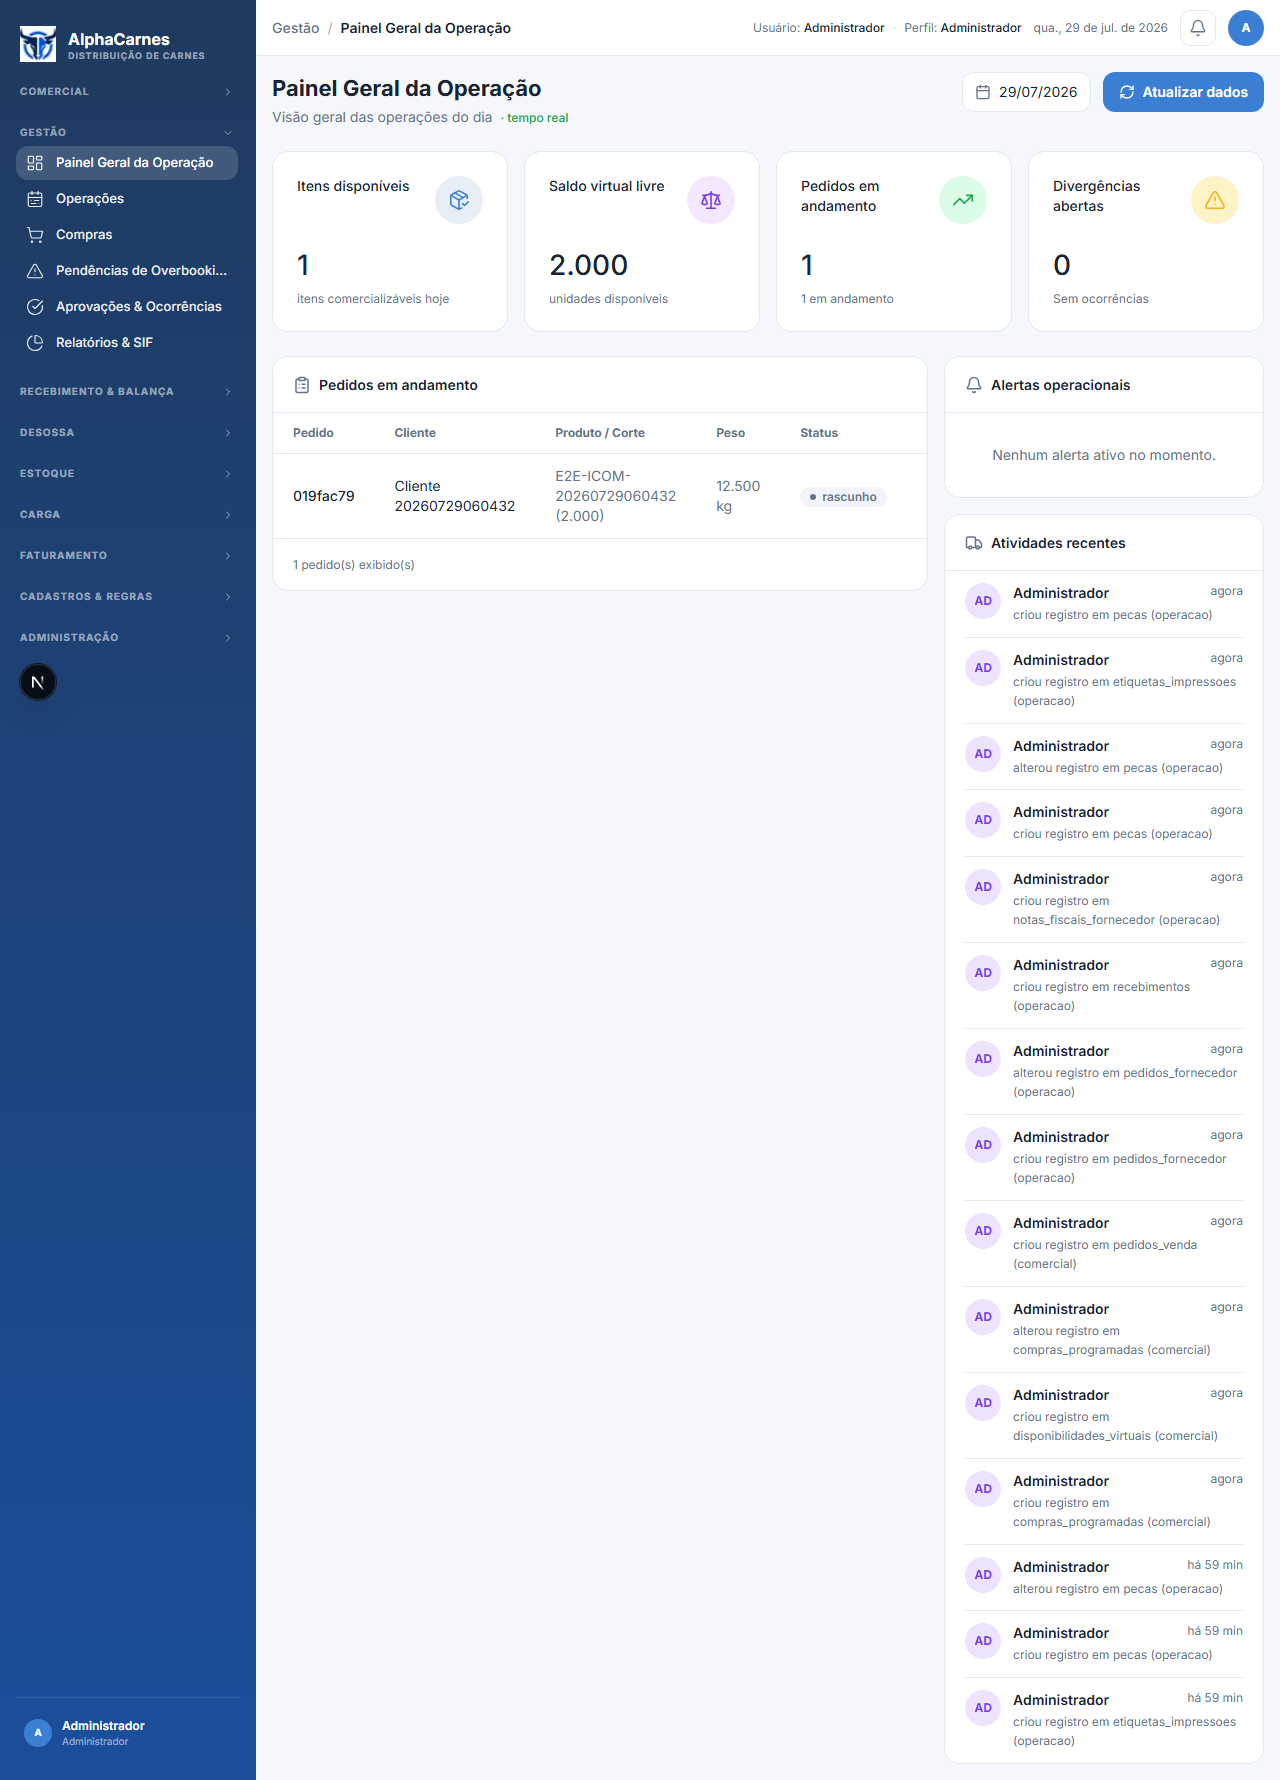
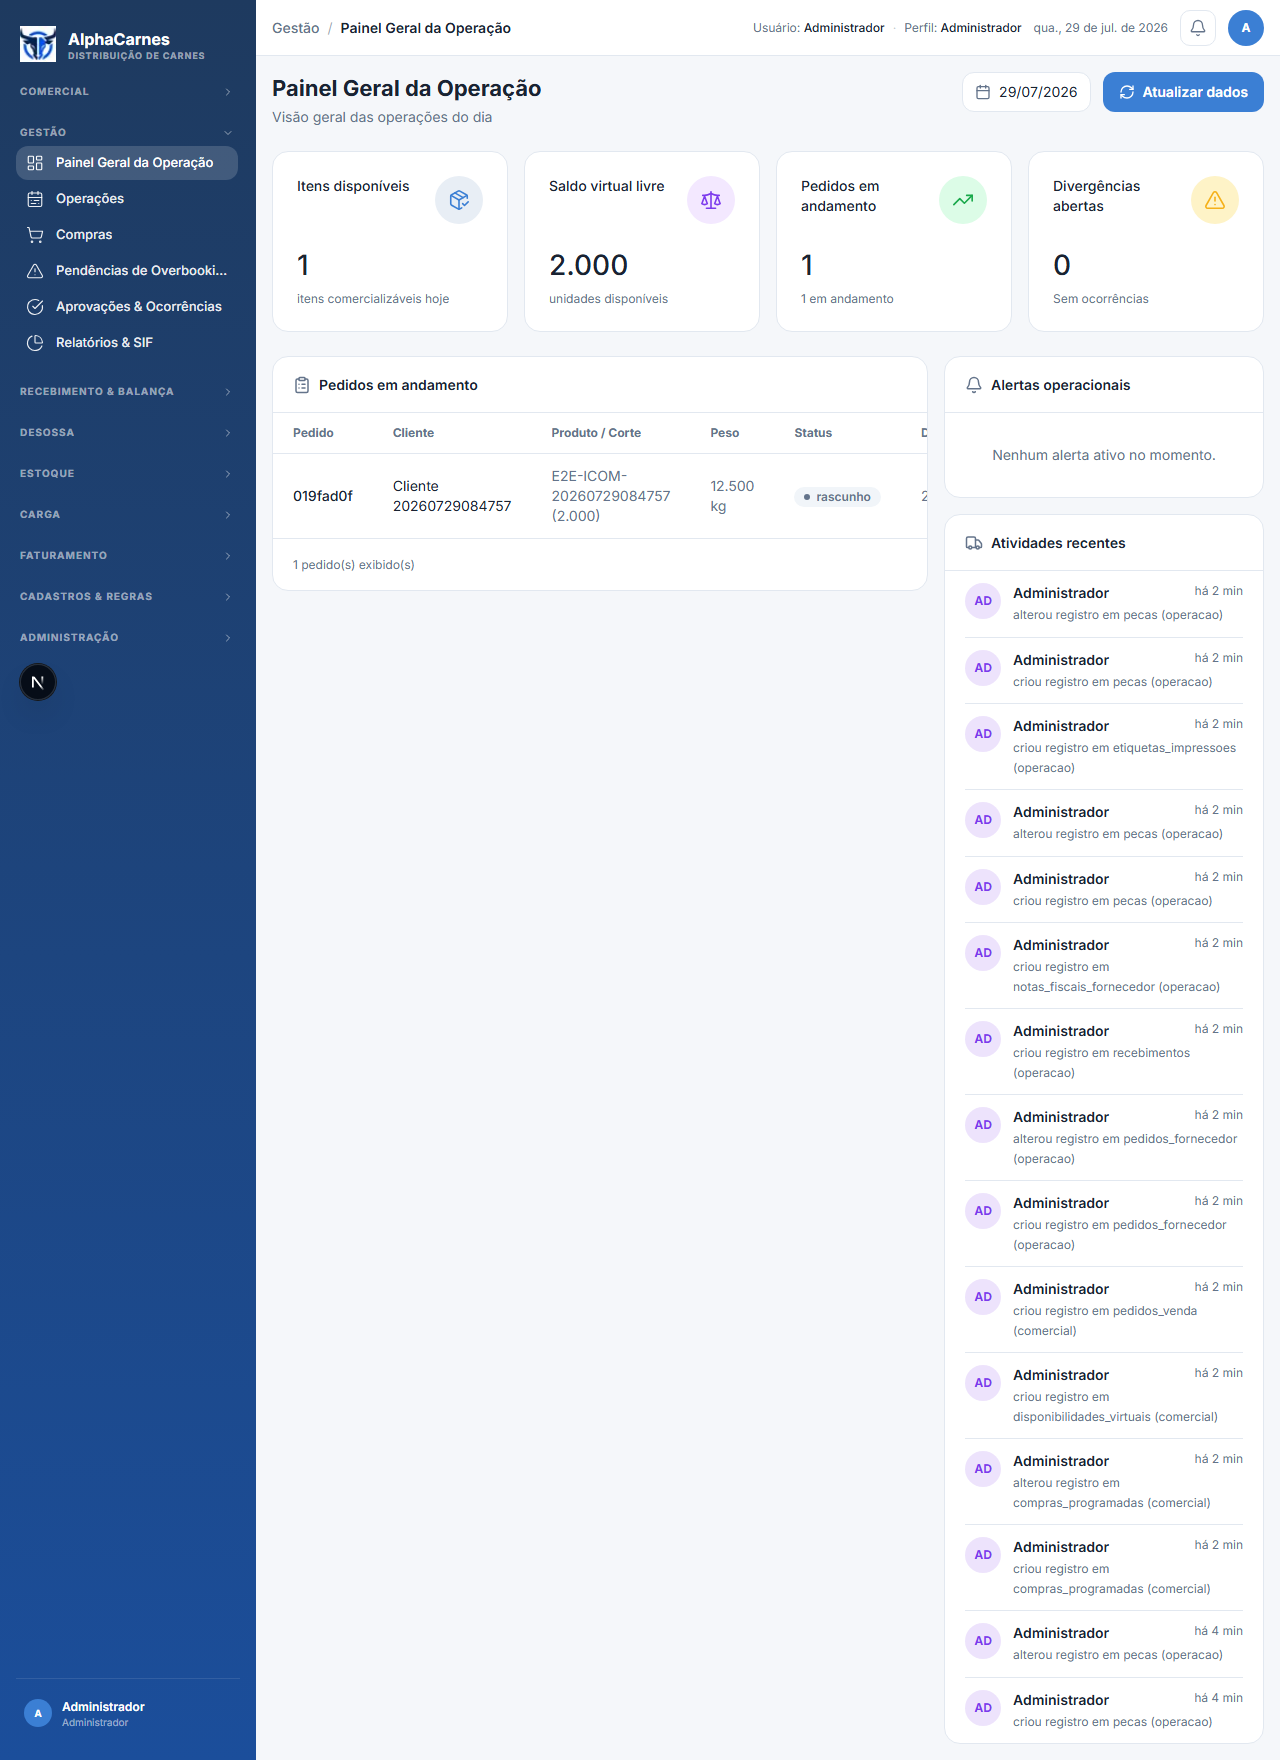
docs(onda4): registrar relatório de implementação

diff --git a/docs/evidencias/alpha-jornada-e2e/index.html b/docs/evidencias/alpha-jornada-e2e/index.html
@@ -37,7 +37,7 @@
     <p>Relatório gerado pela automação Playwright com dados inseridos no banco atual e telas capturadas no navegador Chromium.</p>
     <div class="badges">
       <span class="badge">11 telas capturadas</span>
-      <span class="badge">Run 20260729070514</span>
+      <span class="badge">Run 20260729085454</span>
       <span class="badge">Data 2026-08-01</span>
     </div>
   </header>
@@ -46,7 +46,7 @@
       <h2>Rastreabilidade dos Dados</h2>
       <p>Limite ativo da Onda 4: para_corte</p>
       <div class="context-grid">
-        <div><strong>Run ID</strong><p><code>20260729070514</code></p></div><div><strong>Data operacional</strong><p><code>2026-08-01</code></p></div><div><strong>Cliente</strong><p><code>019facb1-300f-79da-94eb-4ed76f4203b2</code></p></div><div><strong>Fornecedor</strong><p><code>019facb1-3bf4-7456-9336-58e2f2973bf2</code></p></div><div><strong>Item compra</strong><p><code>019facb1-4e7a-7ccc-8eba-b34f5ffa4c8a</code></p></div><div><strong>Item comercial</strong><p><code>019facb1-57a8-775b-8ac8-eb7f24e57664</code></p></div><div><strong>Compra programada</strong><p><code>019facb1-5c40-7aeb-a809-8c0cd64f0659</code></p></div><div><strong>Pedido venda</strong><p><code>019facb1-6953-7456-99b6-27d046987b4d</code></p></div><div><strong>Recebimento</strong><p><code>019facb1-7874-7116-9cdd-8ff0fc0f9dba</code></p></div><div><strong>Peça carga</strong><p><code>019facb1-8318-7fc6-825c-2dbccc239aa0</code></p></div><div><strong>Peça no handoff</strong><p><code>019facb1-9540-7b42-8ad2-285d244336e0</code></p></div><div><strong>Limite ativo da Onda 4</strong><p><code>para_corte</code></p></div>
+        <div><strong>Run ID</strong><p><code>20260729085454</code></p></div><div><strong>Data operacional</strong><p><code>2026-08-01</code></p></div><div><strong>Cliente</strong><p><code>019fad15-98ad-7965-bc99-166229180c02</code></p></div><div><strong>Fornecedor</strong><p><code>019fad15-a491-7d81-a334-d8f73381d403</code></p></div><div><strong>Item compra</strong><p><code>019fad15-b72f-7d20-926f-5c1e3f8fa09b</code></p></div><div><strong>Item comercial</strong><p><code>019fad15-bff5-78f4-96d3-eae5f4777445</code></p></div><div><strong>Compra programada</strong><p><code>019fad15-c462-7457-b3bf-19842abfdf60</code></p></div><div><strong>Pedido venda</strong><p><code>019fad15-d0d6-7719-ae7b-86dad72285f0</code></p></div><div><strong>Recebimento</strong><p><code>019fad15-e082-769d-be0a-d0e611c48c59</code></p></div><div><strong>Peça carga</strong><p><code>019fad15-eb19-7978-90e0-71b1ec6cd064</code></p></div><div><strong>Peça no handoff</strong><p><code>019fad15-fd5b-7d2e-9af8-f8093da41e93</code></p></div><div><strong>Limite ativo da Onda 4</strong><p><code>para_corte</code></p></div>
       </div>
     </section>
     <section class="coverage">
@@ -66,7 +66,7 @@
         </tbody>
       </table>
     </section>
-    <section class="observations"><h2>Observações Técnicas</h2><ul><li>Console warning: WebSocket connection to 'ws://localhost:4001/' failed: WebSocket is closed before the connection is established.</li><li>Console error: Failed to load resource: the server responded with a status of 409 (Conflict)</li></ul></section>
+    <section class="observations"><h2>Observações Técnicas</h2><ul><li>Console warning: WebSocket connection to 'ws://127.0.0.1:4001/' failed: WebSocket is closed before the connection is established.</li><li>Console error: WebSocket connection to 'ws://127.0.0.1:4001/' failed: HTTP Authentication failed; no valid credentials available</li><li>Console error: WebSocket connection to 'ws://127.0.0.1:4001/' failed: HTTP Authentication failed; no valid credentials available</li><li>Console error: WebSocket connection to 'ws://127.0.0.1:4001/' failed: HTTP Authentication failed; no valid credentials available</li><li>Console error: WebSocket connection to 'ws://127.0.0.1:4001/' failed: HTTP Authentication failed; no valid credentials available</li><li>Console error: WebSocket connection to 'ws://127.0.0.1:4001/' failed: HTTP Authentication failed; no valid credentials available</li><li>Console warning: WebSocket connection to 'ws://127.0.0.1:4001/' failed: WebSocket is closed before the connection is established.</li><li>Console error: WebSocket connection to 'ws://127.0.0.1:4001/' failed: HTTP Authentication failed; no valid credentials available</li><li>Console error: WebSocket connection to 'ws://127.0.0.1:4001/' failed: HTTP Authentication failed; no valid credentials available</li><li>Console error: WebSocket connection to 'ws://127.0.0.1:4001/' failed: HTTP Authentication failed; no valid credentials available</li><li>Console error: Failed to load resource: the server responded with a status of 409 (Conflict)</li></ul></section>
     
         <section class="step" id="01-login">
           <div class="step-head">
@@ -209,12 +209,12 @@
             <span>09</span>
             <div>
               <h2>Recebimento e Balança</h2>
-              <code>http://localhost:3100/recebimento/pesagem-destinacao?recebimentoId=019facb1-7874-7116-9cdd-8ff0fc0f9dba</code>
+              <code>http://localhost:3100/recebimento/pesagem-destinacao?recebimentoId=019fad15-e082-769d-be0a-d0e611c48c59</code>
             </div>
           </div>
           <div class="meta-grid">
             <div><strong>Objetivo</strong><p>Criar lote de recebimento pela tela vigente e encaminhar para a balança.</p></div>
-            <div><strong>Ação</strong><p>Pedido ao Fornecedor PF-E2E-20260729070514-3-1785308736591 foi selecionado e a NF-e informada no novo recebimento.</p></div>
+            <div><strong>Ação</strong><p>Pedido ao Fornecedor PF-E2E-20260729085454-3-1785315316707 foi selecionado e a NF-e informada no novo recebimento.</p></div>
             <div><strong>Resultado</strong><p>Lote criado e aberto na tela de Pesagem e Destinação.</p></div>
           </div>
           
@@ -226,7 +226,7 @@
             <span>10</span>
             <div>
               <h2>Pesagem, Associação e Etiqueta</h2>
-              <code>http://localhost:3100/recebimento/pesagem-destinacao?recebimentoId=019facb1-7874-7116-9cdd-8ff0fc0f9dba</code>
+              <code>http://localhost:3100/recebimento/pesagem-destinacao?recebimentoId=019fad15-e082-769d-be0a-d0e611c48c59</code>
             </div>
           </div>
           <div class="meta-grid">
@@ -243,7 +243,7 @@
             <span>11</span>
             <div>
               <h2>Handoff para Desossa</h2>
-              <code>http://localhost:3100/recebimento/pesagem-destinacao?recebimentoId=019facb1-7874-7116-9cdd-8ff0fc0f9dba</code>
+              <code>http://localhost:3100/recebimento/pesagem-destinacao?recebimentoId=019fad15-e082-769d-be0a-d0e611c48c59</code>
             </div>
           </div>
           <div class="meta-grid">

diff --git a/docs/evidencias/onda4-comercial/RELATORIO.md b/docs/evidencias/onda4-comercial/RELATORIO.md
@@ -1,0 +1,143 @@
+# Relatório — Onda 4 (PR a abrir)
+
+## O que foi implementado
+
+Plano executado: `docs/superpowers/plans/2026-07-26-onda4-comercial.md`, incluindo as
+emendas D33, D34 e D35. Não houve desvio funcional do plano: a implementação entrega a
+Onda 4 completa, sem recorte de MVP e sem antecipar Desossa, Carga ou Faturamento.
+
+| Task | Resultado |
+|---|---|
+| 1 | Migração expand e schemas Drizzle aplicados. |
+| 2 | Migração contract removeu o contrato legado `rota_padrao`. |
+| 3 | Permissões e matriz de perfis atualizadas; snapshot RBAC reproduzível e sem diff. |
+| 4 | Eventos de domínio da Onda 4 implementados. |
+| 5 | Catálogo MVP canônico com 11 pares e sinalização Provisório P11 semeado. |
+| 6 | Unicidade AD-03, herança do cadastro e contrato canônico da compra implementados. |
+| 7 | Adendos e histórico implementados. |
+| 8 | Liberação explícita de reserva conforme AD-06 implementada e auditada. |
+| 9 | Módulo completo de Tabela de Preços implementado. |
+| 10 | Mapa teatro e drill-down da Disponibilidade implementados. |
+| 11 | Espelho Comercial implementado. |
+| 12 | Clientes com rota, prioridade e preferências implementados no backend. |
+| 13 | BFF da Onda 4 implementado, incluindo handlers aninhados de itens. |
+| 14 | Tela real `/comercial/clientes` implementada. |
+| 15 | Tela real `/comercial/pedidos` implementada com fluxos de adendo, overbooking e reserva. |
+| 16 | Cliente e rota legados de pedidos removidos; zero referências residuais no gate. |
+| 17 | Tela real `/comercial/tabela-precos` implementada. |
+| 18 | Tela real `/comercial/disponibilidade` implementada com Mapa padrão, Grade explícita e realtime. |
+| 19 | Tela real `/comercial/espelho` implementada. |
+| 20 | Testes transversais das cinco rotas implementados. |
+| 21 | E2E visual e evidências das cinco telas comerciais registrados. |
+| 22 | Contrato canônico Pedido ao Fornecedor → Recebimento implementado ponta a ponta. |
+| 23 | Jornada operacional D35 encerrada na segunda peça em `para_corte`, com releitura pela API e exatamente 11 evidências. |
+| 24 | Gate local completo executado e artefatos de fechamento preparados. |
+
+Correções de regressão durante o gate ficaram restritas a testes: doubles herdados de
+Pedido ao Fornecedor/Recebimento foram alinhados ao snapshot canônico e a fixture de
+conferência tripla passou a atualizar a linha já materializada, sem relaxar a constraint
+`uq_receb_itens_recebimento_item`. Nenhum arquivo de produção foi alterado nessas correções.
+
+## Evidências
+
+### Gate automatizado
+
+| Etapa | Resultado |
+|---|---|
+| `npm ci` | OK — 42,55 s no ciclo final |
+| `npm run lint` | OK — 61,43 s |
+| `npm run type-check` | OK — 11,76 s |
+| Migrações + seed | OK — 28,81 s |
+| D33 `compras-programadas.e2e-spec.ts` | OK — 1 suíte, 12/12 testes |
+| D34 unitário | OK — 2 suítes, 26/26 testes |
+| D34 integração | OK — 2 suítes, 41/41 testes |
+| Backend full coverage serial | OK — 125/125 suítes, 936/936 testes, 1.160,543 s |
+| Frontend dirigido O4 | OK — 4/4 suítes, 13/13 testes |
+| Frontend dirigido D34 | OK — 2/2 suítes, 6/6 testes |
+| Frontend completo | OK — 46/46 suítes, 217/217 testes |
+| Jornada D35 dirigida | OK — 2/2 testes |
+| Playwright completo | OK — 25/25 testes |
+| `npm run build` | OK — 65,05 s |
+| `npm audit --omit=dev --audit-level=high` | OK — zero achado no nível configurado |
+| `npx gitleaks detect --no-banner --redact` | NÃO EXECUTADO — pacote sem executável e binário local ausente |
+
+Cobertura backend global:
+
+| Statements | Branches | Functions | Lines |
+|---:|---:|---:|---:|
+| 96,77% | 86,65% | 97,08% | 98,08% |
+
+### Pré-condições operacionais reproduzíveis
+
+O full backend limpa os usuários das suítes de integração. Por isso, antes do Playwright,
+o seed canônico deve ser reaplicado e o login admin deve retornar HTTP 200.
+
+Quando o Next.js roda no host e o backend no container publicado em `4001`, o processo do
+Playwright deve receber:
+
+```powershell
+$env:BACKEND_INTERNAL_URL='http://127.0.0.1:4001'
+$env:NEXT_PUBLIC_API_URL='http://127.0.0.1:4001'
+$env:E2E_BACKEND_URL='http://127.0.0.1:4001'
+$env:HARDWARE_FAKE='true'
+$env:NFSE_FAKE='true'
+```
+
+O conjunto completo realiza mais de cinco logins por minuto. O container descartável do
+harness foi executado com `THROTTLE_LOGIN_LIMIT=100`, preservando a mesma imagem, rede,
+porta, demais variáveis e o Postgres seedado. Essa alteração foi somente de runtime de
+teste; código, `.env` e configuração versionada permaneceram intactos.
+
+### Jornada D35 — limite real da Onda 4
+
+Artefato navegável: `docs/evidencias/alpha-jornada-e2e/index.html`.
+
+| Evidência | Marco |
+|---|---|
+| `01-login.png` | Login admin |
+| `02-dashboard.png` | Painel geral |
+| `03-clientes.png` | Cliente persistido |
+| `04-fornecedores.png` | Fornecedor persistido |
+| `05-itens-compra.png` | Item de compra persistido |
+| `06-itens-comerciais.png` | Item comercial persistido |
+| `07-disponibilidade.png` | Disponibilidade comercial |
+| `08-pedido.png` | Pedido comercial |
+| `09-recebimento.png` | Recebimento canônico |
+| `10-pesagem-associada.png` | Primeira peça associada |
+| `11-pesagem-para-corte.png` | Segunda peça relida pela API em `para_corte` |
+
+O artefato contém 11 passos e 11 PNGs. Não existem evidências 12–19, `subitemId`,
+`caminhaoId` ou navegação para rotas futuras. Os próximos handoffs permanecem atribuídos
+às ondas donas: Desossa/O7, Carga/O9 e Faturamento/O10.
+
+### Evidências das cinco telas comerciais
+
+As capturas em `docs/evidencias/onda4-comercial/` mostram Clientes, Pedidos, Tabela de
+Preços, Disponibilidade e Espelho renderizados sem placeholder. O Playwright completo
+revalidou as cinco rotas com os adaptadores fake obrigatórios.
+
+## Critérios de aceite
+
+| Critério | Estado | Prova |
+|---|---|---|
+| Cinco telas comerciais reais, sem placeholder | OK | `onda4-comercial.spec.ts` e capturas 01–05 |
+| Contratos backend/BFF completos | OK | 936 testes backend e testes `bff-onda4`/`bff-recebimento` |
+| Disponibilidade Mapa + Grade + realtime | OK | `disponibilidade.test.tsx` e `onda4-disponibilidade.test.tsx` |
+| Pedido completo, adendo, overbooking e reserva | OK | `onda4-pedidos.test.tsx` e integrações backend |
+| Pedido ao Fornecedor → Recebimento canônico | OK | D34 unitário, integração e frontend dirigidos |
+| Fronteira da Onda 4 em `para_corte` | OK | D35 2/2, evidência 11 e teste estático de fronteira |
+| RBAC e quatro permissões novas | OK | snapshot regerado sem diff |
+| Termo banido, placeholders e legado eliminados | OK | greps manuais com zero linhas |
+| Build e dependências de produção | OK | build e audit verdes |
+| Secret scan | PENDENTE DE FERRAMENTA | gitleaks não está instalado nem disponível via `npx` |
+
+## Pendências/dívidas propostas
+
+1. Disponibilizar um binário oficial do Gitleaks no ambiente/CI e repetir
+   `gitleaks detect --no-banner --redact` antes do Portão 2. O resultado não foi
+   presumido nem substituído por outro scanner.
+2. Automatizar no harness o reseed pós-backend-full, os URLs explícitos do host e um
+   limite de throttle próprio para E2E. Isso evita tentativas operacionais sem alterar
+   o limite de produção.
+
+Não há pendência funcional conhecida da Onda 4 nem entrega parcial postergada como MVP.
